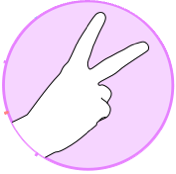
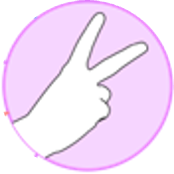
Add newer versions of the choice images

diff --git a/assets/style.css b/assets/style.css
@@ -70,7 +70,7 @@ header > h1 {
     border-radius: 50%;
 /**Add transition timer animation to the pseudo hover function**/
     transition: transform .2s;
-    margin: 0 3%;
+    margin: 0 2%;
     display: inline-block;
 }
 
